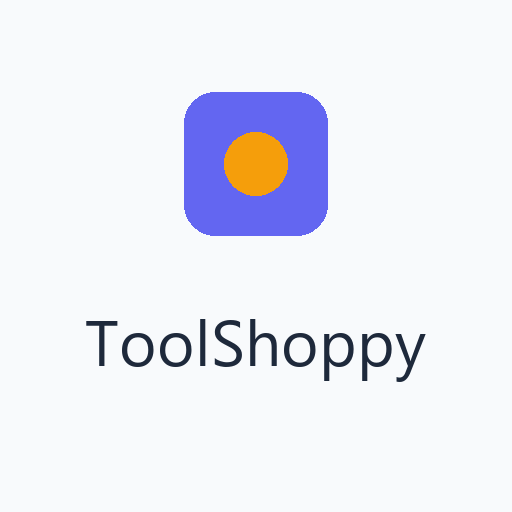
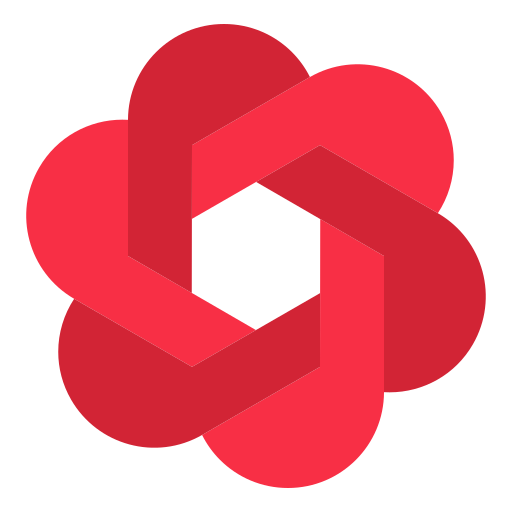
ui2

diff --git a/tools/pdf/merge/index.html b/tools/pdf/merge/index.html
@@ -6,6 +6,7 @@
 <meta name="viewport" content="width=device-width, initial-scale=1.0">
 <title>Merge PDF Free Online — Combine PDFs, No Signup | ToolShoppy</title>
 <meta name="description" content="Merge multiple PDF files into one free online. Preview pages, reorder, combine, and download instantly. No signup, files never leave your device.">
+<meta name="robots" content="index, follow">
 <meta name="keywords" content="merge pdf free online, combine pdf files, join pdf online free, pdf merger no signup">
 <link rel="canonical" href="https://toolshoppy.com/tools/pdf/merge/">
 <meta property="og:title" content="Merge PDF — ToolShoppy">
@@ -13,7 +14,11 @@
 <meta property="og:image" content="https://toolshoppy.com/assets/img/og-image.jpg">
 <meta property="og:url" content="https://toolshoppy.com/tools/pdf/merge/">
 <meta property="og:type" content="website">
+<meta property="og:site_name" content="ToolShoppy">
 <meta name="twitter:card" content="summary_large_image">
+<meta name="twitter:title" content="Merge PDF — ToolShoppy">
+<meta name="twitter:description" content="Combine multiple PDF files into one free online with live previews. 100% client-side.">
+<meta name="twitter:image" content="https://toolshoppy.com/assets/img/og-image.jpg">
 <link rel="icon" href="/assets/img/favicon.svg" type="image/svg+xml">
 <link rel="apple-touch-icon" href="/assets/img/icon-192.png">
 <link rel="stylesheet" href="/assets/css/main.css">
@@ -22,6 +27,12 @@
 <script async src="https://pagead2.googlesyndication.com/pagead/js/adsbygoogle.js?client=ca-pub-1180208702657280" crossorigin="anonymous"></script>
 <script type="application/ld+json">
 {"@context":"https://schema.org","@type":"WebApplication","name":"Merge PDF","url":"https://toolshoppy.com/tools/pdf/merge/","description":"Combine multiple PDF files into one free online with live previews.","applicationCategory":"UtilitiesApplication","operatingSystem":"Any","offers":{"@type":"Offer","price":"0","priceCurrency":"USD"}}
+</script>
+<script type="application/ld+json">
+{"@context":"https://schema.org","@type":"BreadcrumbList","itemListElement":[{"@type":"ListItem","position":1,"name":"Home","item":"https://toolshoppy.com/"},{"@type":"ListItem","position":2,"name":"PDF Tools","item":"https://toolshoppy.com/#pdf"},{"@type":"ListItem","position":3,"name":"Merge PDF","item":"https://toolshoppy.com/tools/pdf/merge/"}]}
+</script>
+<script type="application/ld+json">
+{"@context":"https://schema.org","@type":"FAQPage","mainEntity":[{"@type":"Question","name":"Is there a limit on how many PDFs I can merge?","acceptedAnswer":{"@type":"Answer","text":"No hard limit — add as many files as your device's memory can handle. Everything is processed locally, so very large batches depend on your browser and RAM."}},{"@type":"Question","name":"Will merging keep my original page order?","acceptedAnswer":{"@type":"Answer","text":"Yes. Files merge in the order shown in the list. Use the up and down buttons to reorder pages exactly how you want them before combining."}},{"@type":"Question","name":"Do my PDFs get uploaded anywhere?","acceptedAnswer":{"@type":"Answer","text":"No. Merging happens entirely inside your browser using client-side JavaScript — your files never leave your device or touch a server."}}]}
 </script>
 </head>
 <body>
@@ -132,6 +143,13 @@
         <span class="related-desc">Convert DOCX to PDF in your browser</span>
       </a>
     </div>
+  </div>
+
+  <div class="content-section">
+    <h2>Frequently asked questions</h2>
+    <div class="faq-item"><h3>Is there a limit on how many PDFs I can merge?</h3><p>No hard limit — add as many files as your device's memory can handle. Everything is processed locally, so very large batches depend on your browser and RAM.</p></div>
+    <div class="faq-item"><h3>Will merging keep my original page order?</h3><p>Yes. Files merge in the order shown in the list. Use the ↑ / ↓ buttons to reorder pages exactly how you want them before combining.</p></div>
+    <div class="faq-item"><h3>Do my PDFs get uploaded anywhere?</h3><p>No. Merging happens entirely inside your browser using client-side JavaScript — your files never leave your device or touch a server.</p></div>
   </div>
 </main>
 

diff --git a/404.html b/404.html
@@ -9,7 +9,15 @@
 <meta name="robots" content="noindex">
 <link rel="canonical" href="https://toolshoppy.com/404.html">
 <meta property="og:title" content="Page Not Found — ToolShoppy">
+<meta property="og:description" content="That page doesn’t exist. Browse free ToolShoppy tools — image compressor, PDF utilities, and more.">
 <meta property="og:image" content="https://toolshoppy.com/assets/img/og-image.jpg">
+<meta property="og:url" content="https://toolshoppy.com/404.html">
+<meta property="og:type" content="website">
+<meta property="og:site_name" content="ToolShoppy">
+<meta name="twitter:card" content="summary_large_image">
+<meta name="twitter:title" content="Page Not Found — ToolShoppy">
+<meta name="twitter:description" content="That page doesn’t exist. Browse free ToolShoppy tools — image compressor, PDF utilities, and more.">
+<meta name="twitter:image" content="https://toolshoppy.com/assets/img/og-image.jpg">
 <link rel="icon" href="/assets/img/favicon.svg" type="image/svg+xml">
 <link rel="apple-touch-icon" href="/assets/img/icon-192.png">
 <link rel="manifest" href="/manifest.json">

diff --git a/tools/pdf/editor/index.html b/tools/pdf/editor/index.html
@@ -6,6 +6,7 @@
 <meta name="viewport" content="width=device-width, initial-scale=1.0">
 <title>PDF Editor Free Online — Annotate PDF, No Signup | ToolShoppy</title>
 <meta name="description" content="Edit PDF free online — add text, highlight, redact, and sign. No signup, files never leave your device.">
+<meta name="robots" content="index, follow">
 <meta name="keywords" content="free online pdf editor, pdf editor free online, online pdf editor free, pdf editor without login">
 <link rel="canonical" href="https://toolshoppy.com/tools/pdf/editor/">
 <meta property="og:title" content="PDF Editor — ToolShoppy">
@@ -13,7 +14,11 @@
 <meta property="og:image" content="https://toolshoppy.com/assets/img/og-image.jpg">
 <meta property="og:url" content="https://toolshoppy.com/tools/pdf/editor/">
 <meta property="og:type" content="website">
+<meta property="og:site_name" content="ToolShoppy">
 <meta name="twitter:card" content="summary_large_image">
+<meta name="twitter:title" content="PDF Editor — ToolShoppy">
+<meta name="twitter:description" content="Annotate and edit PDFs free online, 100% client-side.">
+<meta name="twitter:image" content="https://toolshoppy.com/assets/img/og-image.jpg">
 <link rel="icon" href="/assets/img/favicon.svg" type="image/svg+xml">
 <link rel="apple-touch-icon" href="/assets/img/icon-192.png">
 <link rel="stylesheet" href="/assets/css/main.css">
@@ -29,6 +34,9 @@
 </style>
 <script type="application/ld+json">
 {"@context":"https://schema.org","@type":"WebApplication","name":"PDF Editor","url":"https://toolshoppy.com/tools/pdf/editor/","description":"Annotate and edit PDFs free online, 100% client-side.","applicationCategory":"UtilitiesApplication","operatingSystem":"Any","offers":{"@type":"Offer","price":"0","priceCurrency":"USD"}}
+</script>
+<script type="application/ld+json">
+{"@context":"https://schema.org","@type":"BreadcrumbList","itemListElement":[{"@type":"ListItem","position":1,"name":"Home","item":"https://toolshoppy.com/"},{"@type":"ListItem","position":2,"name":"PDF Tools","item":"https://toolshoppy.com/#pdf"},{"@type":"ListItem","position":3,"name":"PDF Editor","item":"https://toolshoppy.com/tools/pdf/editor/"}]}
 </script>
 <script type="application/ld+json">
 {"@context":"https://schema.org","@type":"FAQPage","mainEntity":[{"@type":"Question","name":"Can I edit PDF text online for free?","acceptedAnswer":{"@type":"Answer","text":"ToolShoppy’s free PDF editor lets you annotate: add text boxes, highlight, whiteout/redact, and draw. Full reflow of existing PDF text is not supported client-side."}},{"@type":"Question","name":"Do I need to create an account?","acceptedAnswer":{"@type":"Answer","text":"No. Editing runs in your browser with no signup."}}]}

diff --git a/tools/pdf/unlock/index.html b/tools/pdf/unlock/index.html
@@ -6,6 +6,7 @@
 <meta name="viewport" content="width=device-width, initial-scale=1.0">
 <title>Unlock PDF Free Online — Remove PDF Password | ToolShoppy</title>
 <meta name="description" content="Unlock PDF free online — remove password protection when you know the password. No signup, files never leave your device.">
+<meta name="robots" content="index, follow">
 <meta name="keywords" content="unlock pdf, remove pdf password, unlock pdf free online, pdf password remover">
 <link rel="canonical" href="https://toolshoppy.com/tools/pdf/unlock/">
 <meta property="og:title" content="Unlock PDF — ToolShoppy">
@@ -13,7 +14,11 @@
 <meta property="og:image" content="https://toolshoppy.com/assets/img/og-image.jpg">
 <meta property="og:url" content="https://toolshoppy.com/tools/pdf/unlock/">
 <meta property="og:type" content="website">
+<meta property="og:site_name" content="ToolShoppy">
 <meta name="twitter:card" content="summary_large_image">
+<meta name="twitter:title" content="Unlock PDF — ToolShoppy">
+<meta name="twitter:description" content="Remove PDF password free online when you know the password. 100% client-side.">
+<meta name="twitter:image" content="https://toolshoppy.com/assets/img/og-image.jpg">
 <link rel="icon" href="/assets/img/favicon.svg" type="image/svg+xml">
 <link rel="apple-touch-icon" href="/assets/img/icon-192.png">
 <link rel="stylesheet" href="/assets/css/main.css">
@@ -22,6 +27,9 @@
 <script async src="https://pagead2.googlesyndication.com/pagead/js/adsbygoogle.js?client=ca-pub-1180208702657280" crossorigin="anonymous"></script>
 <script type="application/ld+json">
 {"@context":"https://schema.org","@type":"WebApplication","name":"Unlock PDF","url":"https://toolshoppy.com/tools/pdf/unlock/","description":"Remove PDF password free online when you know the password.","applicationCategory":"UtilitiesApplication","operatingSystem":"Any","offers":{"@type":"Offer","price":"0","priceCurrency":"USD"}}
+</script>
+<script type="application/ld+json">
+{"@context":"https://schema.org","@type":"BreadcrumbList","itemListElement":[{"@type":"ListItem","position":1,"name":"Home","item":"https://toolshoppy.com/"},{"@type":"ListItem","position":2,"name":"PDF Tools","item":"https://toolshoppy.com/#pdf"},{"@type":"ListItem","position":3,"name":"Unlock PDF","item":"https://toolshoppy.com/tools/pdf/unlock/"}]}
 </script>
 <script type="application/ld+json">
 {"@context":"https://schema.org","@type":"FAQPage","mainEntity":[{"@type":"Question","name":"Can I unlock a PDF without the password?","acceptedAnswer":{"@type":"Answer","text":"No. ToolShoppy only unlocks PDFs when you provide the correct password you already know. We do not crack or bypass unknown passwords."}},{"@type":"Question","name":"Is unlocking safe?","acceptedAnswer":{"@type":"Answer","text":"Yes — the password and file stay in your browser. We create an unlocked copy by re-saving pages locally."}}]}

diff --git a/index.html b/index.html
@@ -1,4 +1,4 @@
-<!DOCTYPE html>
+<!DOCTYPE html>
 <html lang="en">
 <head>
 <meta charset="UTF-8">
@@ -6,6 +6,7 @@
 <meta name="viewport" content="width=device-width, initial-scale=1.0">
 <title>ToolShoppy | Premium Free Online Tool Suite & Converter Hub</title>
 <meta name="description" content="Access 36+ free online PDF, Image, Video, and Finance tools. Redesigned with a premium, privacy-first interface. Convert, compress, and resize with ultimate privacy.">
+<meta name="robots" content="index, follow">
 <meta name="keywords" content="image compressor, govt photo resizer, pdf password, word to pdf, background remover, emi calculator, toolshoppy premium">
 <link rel="canonical" href="https://toolshoppy.com/">
 <meta property="og:title" content="ToolShoppy | Premium Free Online Tool Suite & Converter Hub">
@@ -13,7 +14,10 @@
 <meta property="og:image" content="https://toolshoppy.com/assets/img/og-image.jpg">
 <meta property="og:url" content="https://toolshoppy.com/">
 <meta property="og:type" content="website">
+<meta property="og:site_name" content="ToolShoppy">
 <meta name="twitter:card" content="summary_large_image">
+<meta name="twitter:title" content="ToolShoppy | Premium Free Online Tool Suite & Converter Hub">
+<meta name="twitter:description" content="Access 36+ free online PDF, Image, Video, and Finance tools. Redesigned with a premium, privacy-first interface.">
 <meta name="twitter:image" content="https://toolshoppy.com/assets/img/og-image.jpg">
 <link rel="icon" href="/assets/img/favicon.svg" type="image/svg+xml">
 <link rel="apple-touch-icon" href="/assets/img/icon-192.png">

diff --git a/about.html b/about.html
@@ -6,13 +6,18 @@
 <meta name="viewport" content="width=device-width, initial-scale=1.0">
 <title>About | ToolShoppy</title>
 <meta name="description" content="ToolShoppy is a free, private, client-side utility platform built for global users with an India & Gulf focus.">
+<meta name="robots" content="index, follow">
 <link rel="canonical" href="https://toolshoppy.com/about.html">
 <meta property="og:title" content="About ToolShoppy">
 <meta property="og:description" content="A free, private, client-side utility platform built for global users.">
 <meta property="og:image" content="https://toolshoppy.com/assets/img/og-image.jpg">
 <meta property="og:url" content="https://toolshoppy.com/about.html">
 <meta property="og:type" content="website">
+<meta property="og:site_name" content="ToolShoppy">
 <meta name="twitter:card" content="summary_large_image">
+<meta name="twitter:title" content="About ToolShoppy">
+<meta name="twitter:description" content="A free, private, client-side utility platform built for global users.">
+<meta name="twitter:image" content="https://toolshoppy.com/assets/img/og-image.jpg">
 <link rel="icon" href="/assets/img/favicon.svg" type="image/svg+xml">
 <link rel="apple-touch-icon" href="/assets/img/icon-192.png">
 <link rel="stylesheet" href="/assets/css/main.css">

diff --git a/contact.html b/contact.html
@@ -6,13 +6,18 @@
 <meta name="viewport" content="width=device-width, initial-scale=1.0">
 <title>Contact | ToolShoppy</title>
 <meta name="description" content="Get in touch with the ToolShoppy team.">
+<meta name="robots" content="index, follow">
 <link rel="canonical" href="https://toolshoppy.com/contact.html">
 <meta property="og:title" content="Contact ToolShoppy">
 <meta property="og:description" content="Get in touch with the ToolShoppy team.">
 <meta property="og:image" content="https://toolshoppy.com/assets/img/og-image.jpg">
 <meta property="og:url" content="https://toolshoppy.com/contact.html">
 <meta property="og:type" content="website">
+<meta property="og:site_name" content="ToolShoppy">
 <meta name="twitter:card" content="summary_large_image">
+<meta name="twitter:title" content="Contact ToolShoppy">
+<meta name="twitter:description" content="Get in touch with the ToolShoppy team.">
+<meta name="twitter:image" content="https://toolshoppy.com/assets/img/og-image.jpg">
 <link rel="icon" href="/assets/img/favicon.svg" type="image/svg+xml">
 <link rel="apple-touch-icon" href="/assets/img/icon-192.png">
 <link rel="stylesheet" href="/assets/css/main.css">

diff --git a/privacy.html b/privacy.html
@@ -6,13 +6,18 @@
 <meta name="viewport" content="width=device-width, initial-scale=1.0">
 <title>Privacy Policy | ToolShoppy</title>
 <meta name="description" content="ToolShoppy privacy policy — your files are processed entirely in your browser and never touch our servers.">
+<meta name="robots" content="index, follow">
 <link rel="canonical" href="https://toolshoppy.com/privacy.html">
 <meta property="og:title" content="Privacy Policy — ToolShoppy">
 <meta property="og:description" content="Your files are processed entirely in your browser and never touch our servers.">
 <meta property="og:image" content="https://toolshoppy.com/assets/img/og-image.jpg">
 <meta property="og:url" content="https://toolshoppy.com/privacy.html">
 <meta property="og:type" content="website">
+<meta property="og:site_name" content="ToolShoppy">
 <meta name="twitter:card" content="summary_large_image">
+<meta name="twitter:title" content="Privacy Policy — ToolShoppy">
+<meta name="twitter:description" content="Your files are processed entirely in your browser and never touch our servers.">
+<meta name="twitter:image" content="https://toolshoppy.com/assets/img/og-image.jpg">
 <link rel="icon" href="/assets/img/favicon.svg" type="image/svg+xml">
 <link rel="apple-touch-icon" href="/assets/img/icon-192.png">
 <link rel="stylesheet" href="/assets/css/main.css">

diff --git a/terms.html b/terms.html
@@ -6,13 +6,18 @@
 <meta name="viewport" content="width=device-width, initial-scale=1.0">
 <title>Terms of Service | ToolShoppy</title>
 <meta name="description" content="ToolShoppy terms of service — free-to-use online tools, provided as-is with no warranty.">
+<meta name="robots" content="index, follow">
 <link rel="canonical" href="https://toolshoppy.com/terms.html">
 <meta property="og:title" content="Terms of Service — ToolShoppy">
 <meta property="og:description" content="Free-to-use online tools, provided as-is with no warranty.">
 <meta property="og:image" content="https://toolshoppy.com/assets/img/og-image.jpg">
 <meta property="og:url" content="https://toolshoppy.com/terms.html">
 <meta property="og:type" content="website">
+<meta property="og:site_name" content="ToolShoppy">
 <meta name="twitter:card" content="summary_large_image">
+<meta name="twitter:title" content="Terms of Service — ToolShoppy">
+<meta name="twitter:description" content="Free-to-use online tools, provided as-is with no warranty.">
+<meta name="twitter:image" content="https://toolshoppy.com/assets/img/og-image.jpg">
 <link rel="icon" href="/assets/img/favicon.svg" type="image/svg+xml">
 <link rel="apple-touch-icon" href="/assets/img/icon-192.png">
 <link rel="stylesheet" href="/assets/css/main.css">

diff --git a/tools/image/compress/index.html b/tools/image/compress/index.html
@@ -6,6 +6,7 @@
 <meta name="viewport" content="width=device-width, initial-scale=1.0">
 <title>Compress Image to Exact KB Free — No Signup | ToolShoppy</title>
 <meta name="description" content="Compress any image to an exact KB size (20KB, 50KB, 100KB, 200KB) free online. No signup, files never leave your device. Perfect for PSC, UPSC, PAN, government forms.">
+<meta name="robots" content="index, follow">
 <meta name="keywords" content="compress image to 20kb online free, compress image to 50kb for psc, reduce image size in kb, image compressor free">
 <link rel="canonical" href="https://toolshoppy.com/tools/image/compress/">
 <meta property="og:title" content="Image Compressor — ToolShoppy">
@@ -13,7 +14,11 @@
 <meta property="og:image" content="https://toolshoppy.com/assets/img/og-image.jpg">
 <meta property="og:url" content="https://toolshoppy.com/tools/image/compress/">
 <meta property="og:type" content="website">
+<meta property="og:site_name" content="ToolShoppy">
 <meta name="twitter:card" content="summary_large_image">
+<meta name="twitter:title" content="Image Compressor — ToolShoppy">
+<meta name="twitter:description" content="Compress any image to an exact KB size free online. 100% client-side.">
+<meta name="twitter:image" content="https://toolshoppy.com/assets/img/og-image.jpg">
 <link rel="icon" href="/assets/img/favicon.svg" type="image/svg+xml">
 <link rel="apple-touch-icon" href="/assets/img/icon-192.png">
 <link rel="stylesheet" href="/assets/css/main.css">

diff --git a/tools/image/convert/index.html b/tools/image/convert/index.html
@@ -6,6 +6,7 @@
 <meta name="viewport" content="width=device-width, initial-scale=1.0">
 <title>Image Converter Free — JPG, PNG, WebP, HEIC | ToolShoppy</title>
 <meta name="description" content="Convert images between JPG, PNG, WebP and HEIC free online. No signup, files never leave your device. Fast client-side conversion.">
+<meta name="robots" content="index, follow">
 <meta name="keywords" content="heic to jpg converter free, image format converter, png to jpg, jpg to webp, convert image online free">
 <link rel="canonical" href="https://toolshoppy.com/tools/image/convert/">
 <meta property="og:title" content="Image Converter — ToolShoppy">
@@ -13,7 +14,11 @@
 <meta property="og:image" content="https://toolshoppy.com/assets/img/og-image.jpg">
 <meta property="og:url" content="https://toolshoppy.com/tools/image/convert/">
 <meta property="og:type" content="website">
+<meta property="og:site_name" content="ToolShoppy">
 <meta name="twitter:card" content="summary_large_image">
+<meta name="twitter:title" content="Image Converter — ToolShoppy">
+<meta name="twitter:description" content="Convert images between JPG, PNG, WebP and HEIC free online, 100% client-side.">
+<meta name="twitter:image" content="https://toolshoppy.com/assets/img/og-image.jpg">
 <link rel="icon" href="/assets/img/favicon.svg" type="image/svg+xml">
 <link rel="apple-touch-icon" href="/assets/img/icon-192.png">
 <link rel="stylesheet" href="/assets/css/main.css">

diff --git a/tools/image/govt-photo/index.html b/tools/image/govt-photo/index.html
@@ -6,6 +6,7 @@
 <meta name="viewport" content="width=device-width, initial-scale=1.0">
 <title>Govt Photo Resizer — PSC, UPSC, PAN, Aadhaar, Passport Size | ToolShoppy</title>
 <meta name="description" content="Resize your photo to exact government form requirements — Kerala PSC, UPSC, SSC, PAN Card, Aadhaar, Passport (India/UAE/UK/US). Free, no signup, 100% on your device.">
+<meta name="robots" content="index, follow">
 <meta name="keywords" content="psc photo size, upsc photo size, pan card photo size, aadhaar photo size, passport size photo maker online">
 <link rel="canonical" href="https://toolshoppy.com/tools/image/govt-photo/">
 <meta property="og:title" content="Govt Photo Resizer — ToolShoppy">
@@ -13,7 +14,11 @@
 <meta property="og:image" content="https://toolshoppy.com/assets/img/og-image.jpg">
 <meta property="og:url" content="https://toolshoppy.com/tools/image/govt-photo/">
 <meta property="og:type" content="website">
+<meta property="og:site_name" content="ToolShoppy">
 <meta name="twitter:card" content="summary_large_image">
+<meta name="twitter:title" content="Govt Photo Resizer — ToolShoppy">
+<meta name="twitter:description" content="Resize your photo to exact PSC/UPSC/PAN/Aadhaar/Passport requirements free online.">
+<meta name="twitter:image" content="https://toolshoppy.com/assets/img/og-image.jpg">
 <link rel="icon" href="/assets/img/favicon.svg" type="image/svg+xml">
 <link rel="apple-touch-icon" href="/assets/img/icon-192.png">
 <link rel="stylesheet" href="/assets/css/main.css">